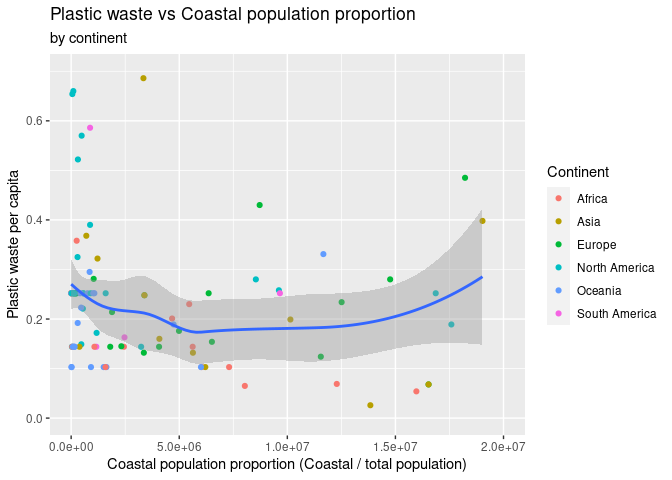
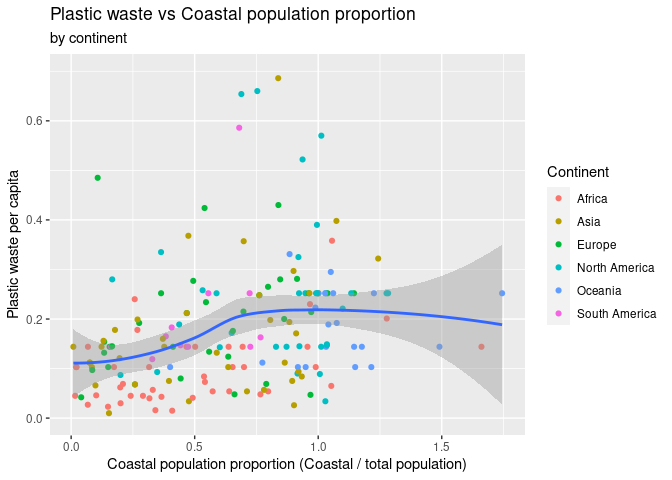
Fix exercise 8

diff --git a/lab-02.md b/lab-02.md
@@ -215,16 +215,16 @@ the vast majority of countries have a coast population proportion below
 
 ``` r
 ggplot(data = plastic_waste) +
-  geom_point(mapping = aes(x = coastal_pop/plastic_waste_per_cap, 
+  geom_point(mapping = aes(x = coastal_pop/total_pop, 
                      y = plastic_waste_per_cap, color = continent)) +
-  geom_smooth(mapping = aes(x = coastal_pop/plastic_waste_per_cap, 
-                     y = plastic_waste_per_cap))+ ylim(0, 0.7) + xlim(0, 2.0e+07) + labs(x = "Coastal population proportion (Coastal / total population)", y="Plastic waste per capita", title = "Plastic waste vs Coastal population proportion", subtitle = "by continent", color = "Continent") 
+  geom_smooth(mapping = aes(x = coastal_pop/total_pop, 
+                     y = plastic_waste_per_cap))+ ylim(0, 0.7) + xlim(0, 1.75) + labs(x = "Coastal population proportion (Coastal / total population)", y="Plastic waste per capita", title = "Plastic waste vs Coastal population proportion", subtitle = "by continent", color = "Continent") 
 ```
 
     ## `geom_smooth()` using method = 'loess' and formula 'y ~ x'
 
-    ## Warning: Removed 141 rows containing non-finite values (stat_smooth).
+    ## Warning: Removed 62 rows containing non-finite values (stat_smooth).
 
-    ## Warning: Removed 141 rows containing missing values (geom_point).
+    ## Warning: Removed 62 rows containing missing values (geom_point).
 
 ![](lab-02_files/figure-gfm/recreate-viz-1.png)<!-- -->
